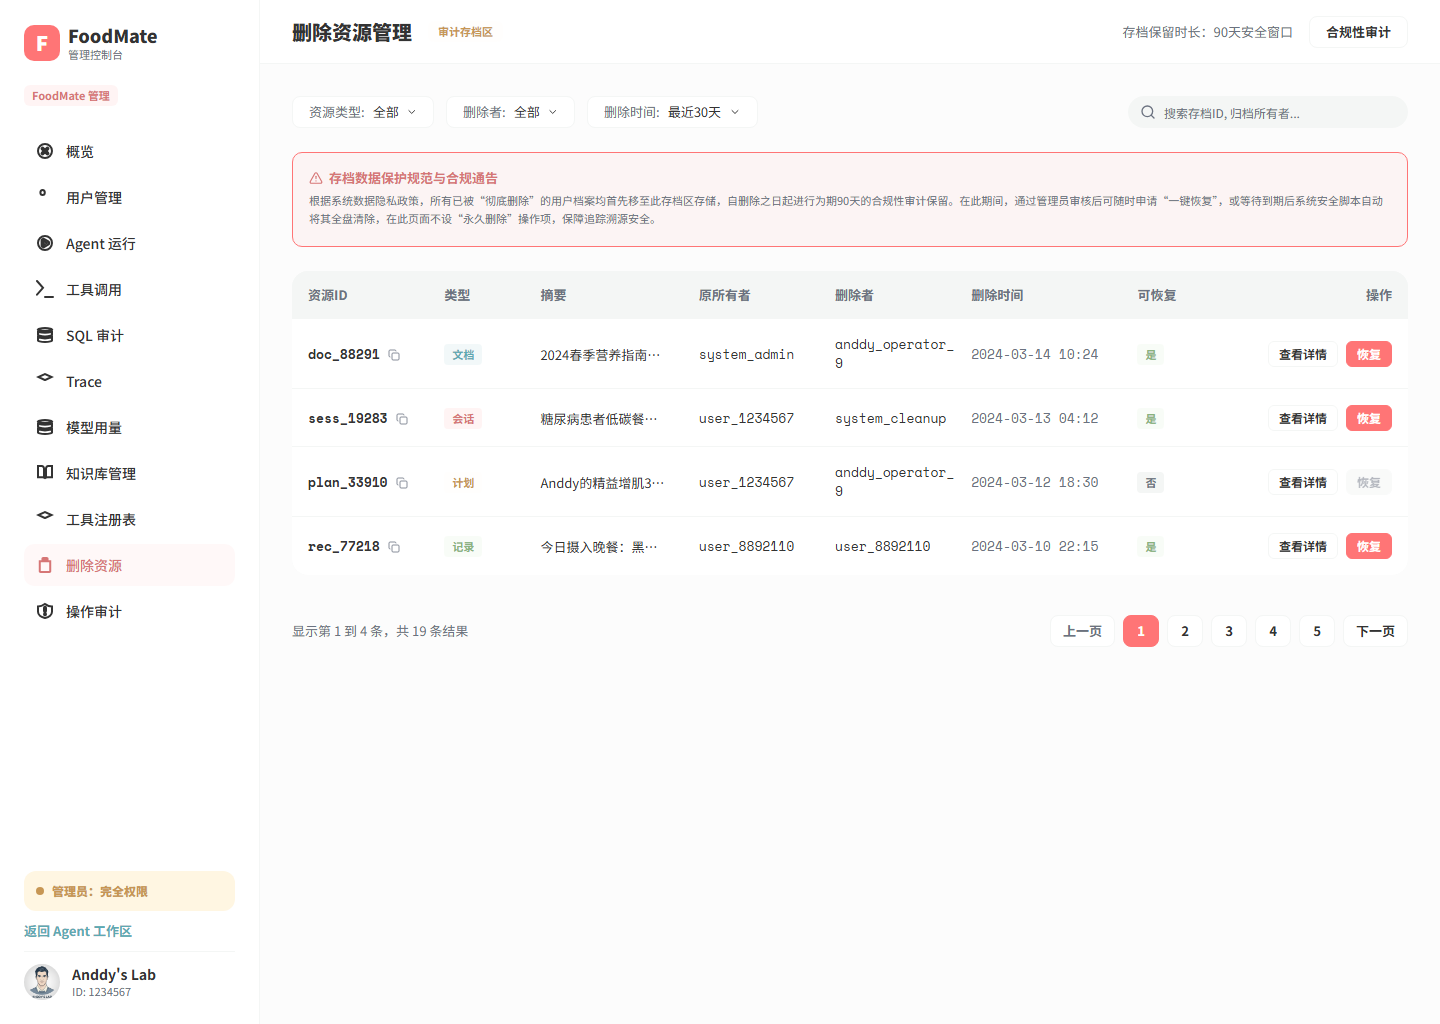
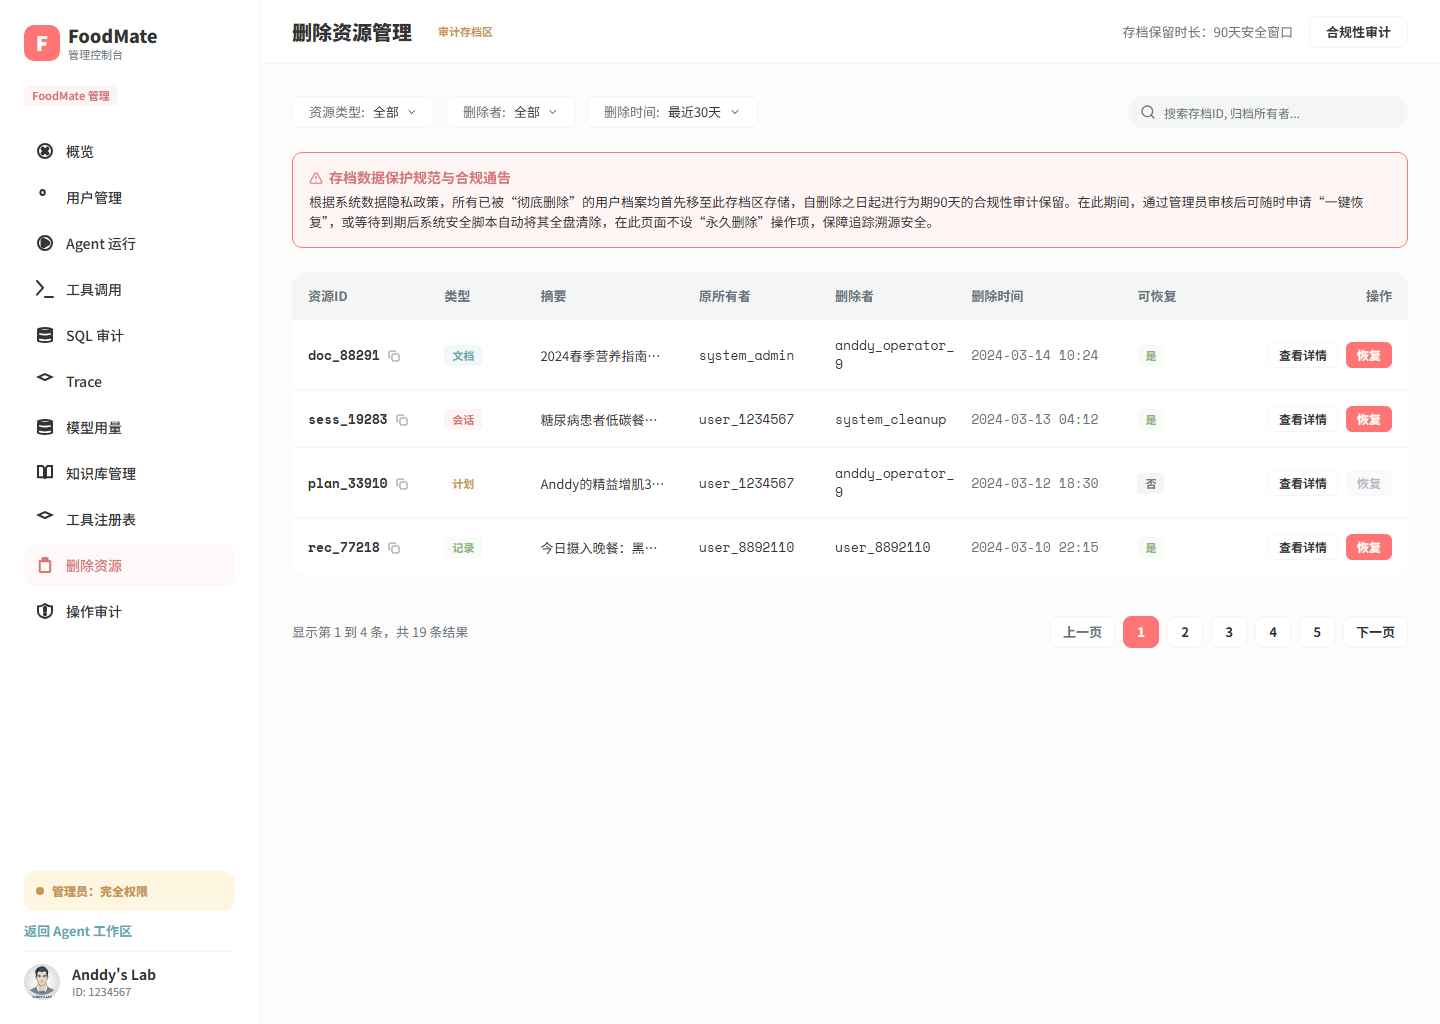
feat(admin): 收口核心列表页视觉

diff --git a/foodmate-ui/src/pages/AdminPage/AdminPage.module.css b/foodmate-ui/src/pages/AdminPage/AdminPage.module.css
@@ -1202,6 +1202,7 @@
 
 .overviewTable :global(th) {
   height: 48px;
+  background: #f4f6f5;
   color: #6b7280;
   font-size: 13px;
   font-weight: 700;
@@ -1665,7 +1666,7 @@
 .registryTableCard {
   display: flex;
   flex: 0 0 auto;
-  height: 396px;
+  height: 412px;
   min-width: 0;
   overflow: hidden;
   border: 1px solid #f4f6f5;
@@ -1709,7 +1710,8 @@
 }
 
 .registryTable :global(th) {
-  height: 48px;
+  height: 64px;
+  background: #f4f6f5;
   color: #6b7280;
   font-size: 13px;
   font-weight: 700;
@@ -2133,7 +2135,7 @@
   padding: 16px;
   border: 1px solid #ff7576;
   border-radius: 10px;
-  background: rgba(255, 117, 118, 0.06);
+  background: #fff5f5;
 }
 
 .deletedNoticeTitle {
@@ -2141,7 +2143,7 @@
   align-items: center;
   gap: 6px;
   color: #d67676;
-  font-size: 13px;
+  font-size: 14px;
   line-height: 17px;
 }
 
@@ -2153,9 +2155,9 @@
 
 .deletedNotice p {
   margin: 0;
-  color: #6b7280;
-  font-size: 11px;
-  line-height: 1.6;
+  color: #333333;
+  font-size: 13px;
+  line-height: 1.5;
   overflow-wrap: anywhere;
 }
 

diff --git a/docxs/功能实现说明/前端已完成实现清单.md b/docxs/功能实现说明/前端已完成实现清单.md
@@ -2010,3 +2010,19 @@
 - [ ] 六项自动 diff 均为非零，且人工复核仍确认共享工作台、头像、图标和浏览器字体光栅化差异，继续保持 `DIFF_REVIEW`。
 - [ ] 本批次只重新采集上述六个受影响画板，不代表其余画板重新采集或完成全量人工视觉复核；全量聚合仍为 `105 DIFF_REVIEW / 0 PASS / 0 UNMAPPED / 0 SIZE_MISMATCH`。
 - [ ] iconfont 实体包、完整 CSS/Unicode 映射、来源和许可证仍未提供，继续保持 `BLOCKED`。
+
+## 223. 2026-09-06 Admin 核心列表页视觉增量收口
+
+本大点只处理 Admin Overview、Tool Registry 和 Deleted Resources 三个核心列表页的 Figma 视觉差异与增量证据，不重新验收全部 105 个画板。Figma 文件保持只读；真实模式服务、权限判断、操作确认和审计边界未改变。
+
+| 画板 | Figma 节点 | 前端入口 | 浏览器 PNG | 视口 / DPR | 差异比例 | MAE | RMSE | 最大通道差异 | 结论 |
+|---|---|---|---|---|---:|---:|---:|---:|---|
+| Admin Overview | `995:977` | `/admin?state=overview` | `dpr1-admin-overview-browser-2026-09-06.png` | `1440×1024 / 1` | 7.3124% | 2.300200 | 15.565838 | 204 | `DIFF_REVIEW` |
+| Admin Tool Registry | `692:3847` | `/admin?state=tool-registry` | `dpr1-admin-tool-registry-browser-2026-09-06.png` | `1440×1024 / 1` | 13.7887% | 2.906208 | 17.849120 | 224 | `DIFF_REVIEW` |
+| Admin Deleted Resources | `692:4104` | `/admin?state=deleted-resources` | `dpr1-admin-deleted-resources-browser-2026-09-06.png` | `1440×1024 / 1` | 12.6503% | 3.186895 | 19.126565 | 224 | `DIFF_REVIEW` |
+
+- [x] Overview 表头、Tool Registry 表头和列表高度已按当前 Figma PNG 复核；Deleted Resources 合规通告背景已校正为 Figma 证据中的 `#FFF5F5`，正文和标题层级保持可读性。
+- [x] 三项浏览器 PNG 已由 Chrome `152.0.7977.77` 在 `1440×1024`、DPR `1`、字体 `loaded` 和无横向溢出条件下重新采集；三项同尺寸 diff 已同步到 `figma-105-diff-results.json`。
+- [ ] 三项自动 diff 均为非零，仍存在字体光栅化、导航图标、头像和局部内容差异，不能标记为像素级 `PASS`；全量聚合继续保持 `105 DIFF_REVIEW / 0 PASS / 0 UNMAPPED / 0 SIZE_MISMATCH`。
+- [x] 本批次集中执行 4 个 Admin 测试文件、`38/38` 个用例通过；`npm run typecheck`、`npm run build`、`npm run lint`、`npm run format:check`、`npm run qa:figma:validate` 和 `git diff --check` 均通过。证据校验返回 `structuralPass=true`、`strictDprPass=true`、`errors=[]`，全量聚合仍为 `105 DIFF_REVIEW / 0 PASS / 0 UNMAPPED / 0 SIZE_MISMATCH`。
+- [x] 本批次未创建虚构 iconfont 字体、glyph 或 Unicode 映射；iconfont 实体包、完整 CSS/Unicode 映射、来源和许可证仍缺失，资源登记继续保持 `BLOCKED`。

diff --git a/docxs/功能实现说明/Figma前端像素级验收报告.md b/docxs/功能实现说明/Figma前端像素级验收报告.md
@@ -2245,3 +2245,19 @@ Figma Design 页共有 105 张顶层画板。本轮已为 105 张画板建立独
 - [ ] 六项自动 diff 均为非零，人工复核仍确认共享工作台、头像、图标和字体光栅化差异，全部继续保持 `DIFF_REVIEW`，不能标记为像素级 `PASS`。
 - [ ] 本节只复核六个 Agent 状态，不代表其他画板重新采集或完成 105 项全量人工视觉复核；全量聚合继续为 `105 DIFF_REVIEW / 0 PASS / 0 UNMAPPED / 0 SIZE_MISMATCH`。
 - [ ] iconfont 实体字体包、完整 CSS/Unicode 映射、来源和许可证仍缺失，继续保持 `BLOCKED`；标准命令图标继续使用 Lucide 或已登记的 Figma SVG 资源。
+
+## 37. 2026-09-06 Admin 核心列表页增量验收
+
+本节只记录 Admin Overview、Tool Registry 和 Deleted Resources 三个受影响画板的当前浏览器截图与 PNG diff，不重新采集或人工验收其余画板。Figma 文件保持只读，页面真实模式请求边界未改变。
+
+| 画板 | Figma 节点 | 前端入口 | 浏览器 PNG | 视口 / DPR | 差异比例 | MAE | RMSE | 最大通道差异 | 结论 |
+|---|---|---|---|---|---:|---:|---:|---:|---|
+| Admin Overview | `995:977` | `/admin?state=overview` | `dpr1-admin-overview-browser-2026-09-06.png` | `1440×1024 / 1` | 7.3124% | 2.300200 | 15.565838 | 204 | `DIFF_REVIEW` |
+| Admin Tool Registry | `692:3847` | `/admin?state=tool-registry` | `dpr1-admin-tool-registry-browser-2026-09-06.png` | `1440×1024 / 1` | 13.7887% | 2.906208 | 17.849120 | 224 | `DIFF_REVIEW` |
+| Admin Deleted Resources | `692:4104` | `/admin?state=deleted-resources` | `dpr1-admin-deleted-resources-browser-2026-09-06.png` | `1440×1024 / 1` | 12.6503% | 3.186895 | 19.126565 | 224 | `DIFF_REVIEW` |
+
+- [x] 三项截图均由 Chrome `152.0.7977.77` 在 `1440×1024`、DPR `1`、字体 `loaded` 和无横向溢出条件下采集；浏览器 PNG 和三项 diff JSON 已同步。
+- [x] Admin Overview 与 Tool Registry 的表头背景和列表高度依据 Figma PNG 复核；Deleted Resources 合规通告内部像素复核为 `#FFF5F5`，已同步前端 CSS。
+- [ ] 三项自动 diff 均为非零，仍保持 `DIFF_REVIEW`；结构检查、截图存在和控件迁移审计不替代人工像素级 `PASS`。
+- [ ] 本节只复核三个受影响画板，不代表其余 102 个画板重新采集或完成全量人工视觉复核；全量聚合继续为 `105 DIFF_REVIEW / 0 PASS / 0 UNMAPPED / 0 SIZE_MISMATCH`。
+- [x] 本批次集中执行 4 个 Admin 测试文件、`38/38` 个用例通过；`npm run typecheck`、`npm run build`、`npm run lint`、`npm run format:check`、`npm run qa:figma:validate` 和 `git diff --check` 均通过。证据校验返回 `structuralPass=true`、`strictDprPass=true`、`errors=[]`。
